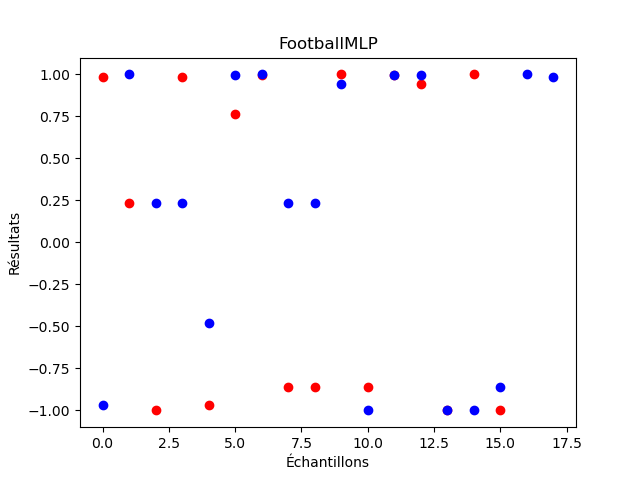
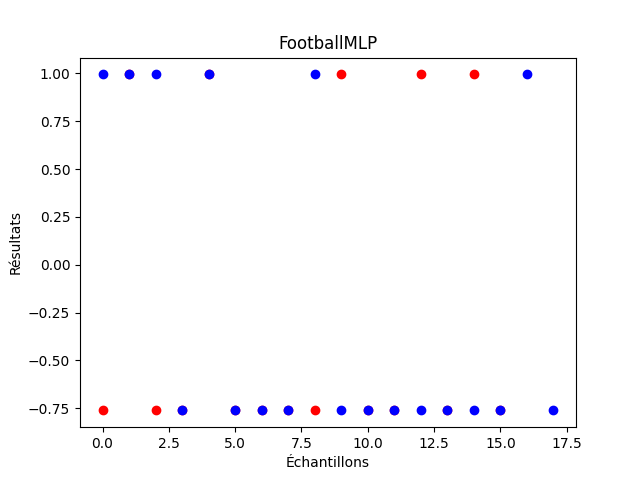
résultats XOR 3 tests sur 4 fonctionnels

diff --git a/function.cpp b/function.cpp
@@ -52,7 +52,7 @@ extern "C"
     double perceptron(int hidden_Layer, int neurons, int random, double *data, int bias, int size) // fonction de sortie, perceptron multicouche
     {
         //display_tab(data, size);
-        data = set_Data(data, size);
+        //data = set_Data(data, size);
         //display_tab(data, size);
         // random number
         vector<double> weight;
@@ -61,20 +61,25 @@ extern "C"
         mt19937 gen(rd());
         uniform_real_distribution<> dis(-random, random);
         for (int i = 0; i < neurons; i++)
-            weight_output.push_back((int)dis(gen));
+        {
+            weight_output.push_back(1);
+        }
+
+        int number = 0;
         //display_vector(weight_output);
         // cas NULL
         // remplir le vecteur de poids
         for (int i = 0; i < size * neurons; i++)
-            weight.push_back((int)dis(gen));
-        MatrixXd data_matrix(neurons, hidden_Layer);
-        for (int i = 0; i < data_matrix.rows(); i++)
         {
-            for (int j = 0; j < data_matrix.cols(); j++)
-                data_matrix(i, j) = 0;
+            if(i % 2 == 0)
+                weight.push_back(1);
+            else
+                weight.push_back(-1);
         }
+        MatrixXd data_matrix = MatrixXd::Zero(neurons, hidden_Layer);
+        //display_vector(weight);
         //display_matrix(data_matrix, data_matrix.rows(), data_matrix.cols());
-        MatrixXd weight_matrix(neurons * neurons, hidden_Layer - 1);
+        MatrixXd weight_matrix = MatrixXd::Zero(neurons * hidden_Layer, hidden_Layer-1);
         // remplir le vecteur de poids de sortie
         /*for (int i = 0; i < neurons; i++)
             weight_output.push_back(dis(gen));*/
@@ -82,7 +87,9 @@ extern "C"
         for (int i = 0; i < weight_matrix.rows(); i++)
         {
             for (int j = 0; j < weight_matrix.cols(); j++)
-                weight_matrix(i, j) = dis(gen);
+            {
+                weight_matrix(i, j) = int(dis(gen));
+            }
         }
         int sum = 0;
         if (hidden_Layer == 0 || neurons == 0)
@@ -93,11 +100,15 @@ extern "C"
         sum = 0;
         int increment = 0;
         int data_increment = 0;
+        int bias2 = -(bias);
         // remplissage de la matrice de données
         for (int i = 0; i < data_matrix.rows(); i++)
         {
-            sum += bias;
-            while (data_increment < size && increment < weight.size())
+            if(i==0)
+                sum += bias;
+            else
+                sum += bias2;
+            while (data_increment < size)
             {
                 sum += data[data_increment] * weight[increment];
                 data_increment++;
@@ -137,6 +148,8 @@ extern "C"
         //cout << "out : " << out << endl;
         out = tanh(out); // tanh
         //cout << "tanh : " << out << endl;
+        //display_matrix(data_matrix, data_matrix.rows(), data_matrix.cols());
+        //display_matrix(weight_matrix, weight_matrix.rows(), weight_matrix.cols());
         return out;
     }
 

diff --git a/main.py b/main.py
@@ -27,6 +27,16 @@ def perceptron( hidden_Layer, neurons, random, data, bias, size, lib):
     res = func(hidden_Layer, neurons, random, data_array, bias ,size)
     return res
 
+#XOR
+val = perceptron(1, 2, 2, [1.0,1.0], 0, 2, lib)
+print("XOR for [1, 1] = ", val)
+val = perceptron(1, 2, 2, [1.0,0.0], 0, 2, lib)
+print("XOR for [1, 0] = ", val)
+val = perceptron(1, 2, 2, [0.0,1.0], 0, 2, lib)
+print("XOR for [0,1] = ", val)
+val = perceptron(1, 2, 2, [0.0,0.0], 0, 2, lib)
+print("XOR for [0, 0] = ", val)
+
 # Convertie l'image en matrice
 def get_matrice_image(img):
     img_mat = np.array(img)
@@ -90,6 +100,8 @@ for img in img_list:
     img_mat = get_matrice_image(img)
     img_flatten = img_mat.flatten()
     basketTest.append(img_flatten)
+
+
 
 
 #results of linear model
@@ -199,8 +211,6 @@ print(f'Result test basket for perceptron :{basket_testMLP}\n\n')
 
 
 #plotting
-import matplotlib.pyplot as plt
-
 import matplotlib.pyplot as plt
 # Graphique pour le football
 plt.figure(1)
